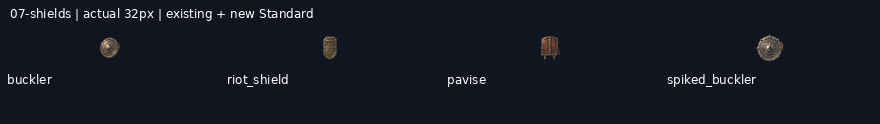
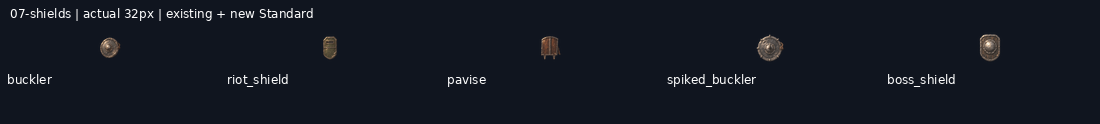
art: draw shield-boss_shield Standard inventory painting

diff --git a/art/_archive/gear/2026-11-19-melee-armour/HANDOFF.md b/art/_archive/gear/2026-11-19-melee-armour/HANDOFF.md
@@ -1,6 +1,6 @@
 # Files05 and07 — 19 November gear handoff
 
-Branch: `art/2026-11-19-melee-armour`, from develop `2020b5c2`. **20/39 Standard paintings delivered.** Next: `shield-boss_shield`. Exact remaining order is progress.json / queue.json.
+Branch: `art/2026-11-19-melee-armour`, from develop `2020b5c2`. **21/39 Standard paintings delivered.** Next: `shield-ram_plate`. Exact remaining order is progress.json / queue.json.
 
 This worker claims file05 (19 melee) and file07 (6 shields +14 armour). Another GPT owns files01–04. Files06/08/09/10 are unclaimed by this worker. No work on the other GPT’s files, title screen, old icons or pet.
 
